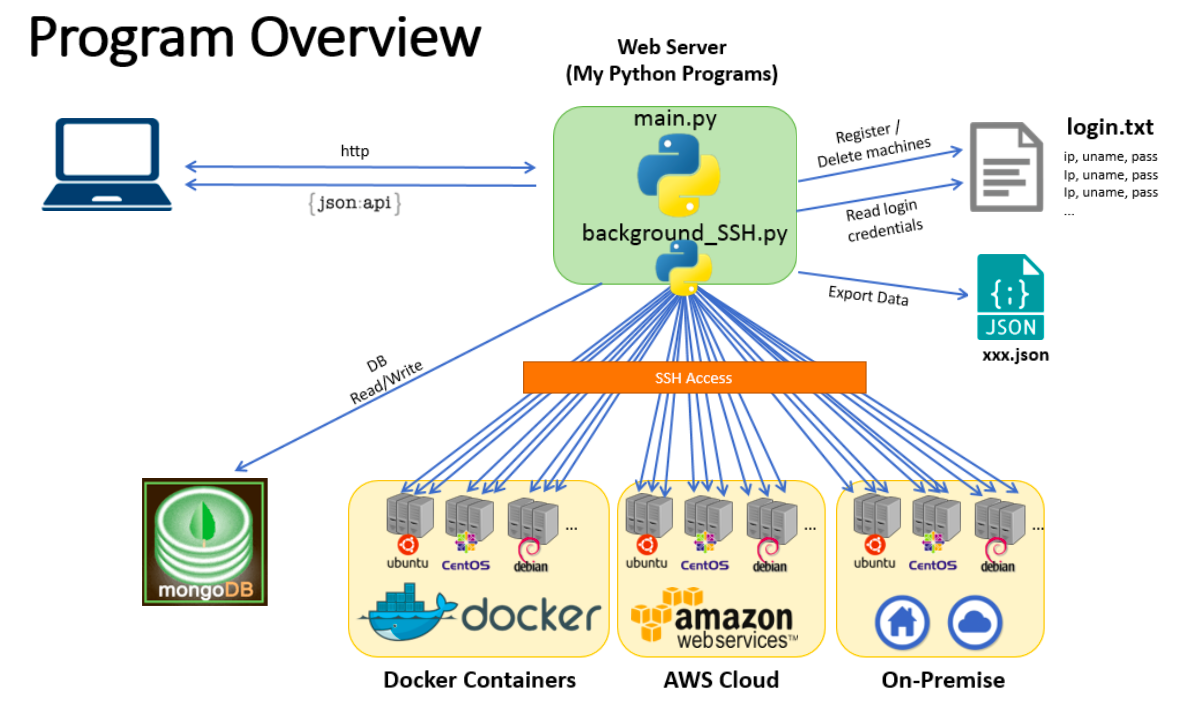
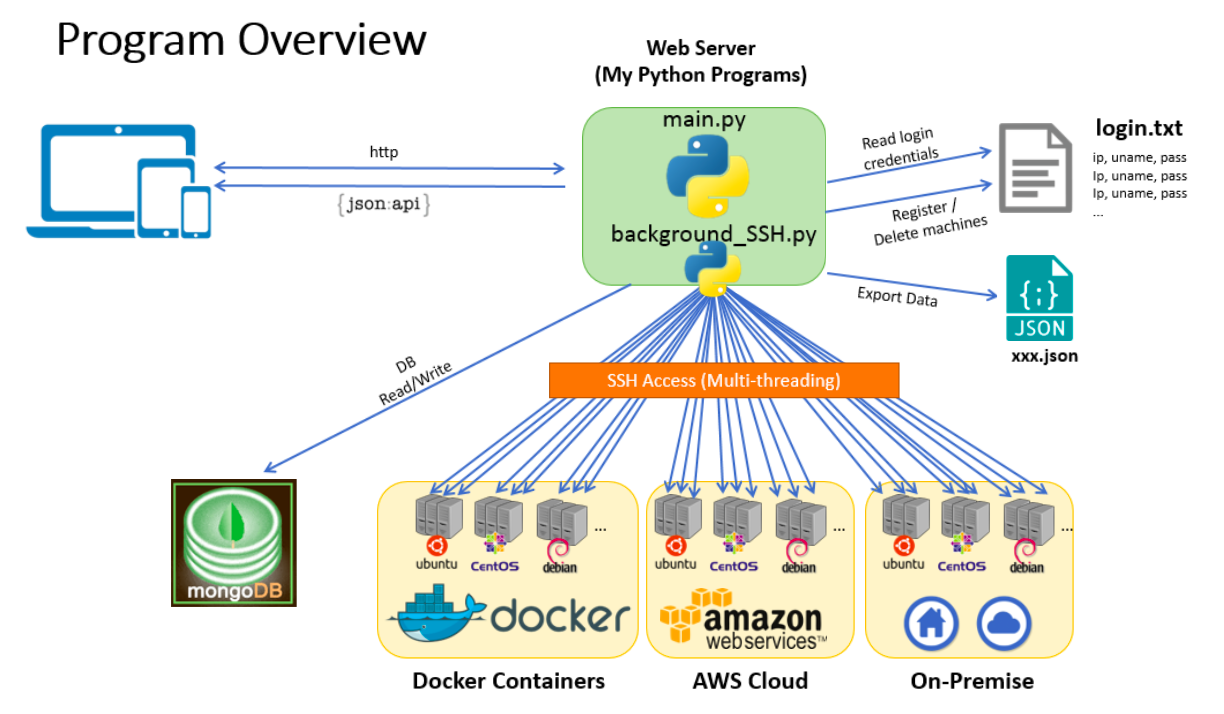
ADD description about responsive design and technology stack

diff --git a/README.md b/README.md
@@ -3,53 +3,69 @@ Management Application for Linux Machines
 
 ## Table of Contents
 1. [Introduction](#1-introduction)
-2. [Install packages](#2-install-packages)
-3. [Try it out](#3-try-it-out)
-    - [With test infrastructure for a demo (Docker containers)](#1-if-you-run-with-the-test-docker-environment)
+2. [Supported environment](#2-supported-environment) 
+3. [Install packages](#3-install-packages)
+4. [Try it out](#4-try-it-out)
+    - [With test infrastructure with Docker containers (Demo purpose only)](#1-with-the-test-docker-environment-demo-purpose-only)
     - [With your own infrastructure](#2-if-you-run-with-your-own-infrastructure)
-4. [Documentation](#4-documentation)
+5. [Documentation](#5-documentation)
 
 
 <br>
 ## 1. Introduction
-This program is a simple management application for Linux machines (Physical/Virtual) that automatically and periodically collects basic machine data via SSH including some performance data (CPU, Memory, Disk), and lets administrators view them from the management portal (GUI).  
-By using this application, administrators can manage their Linux machines (Ubuntu, Debian, CentOS etc.) on Docker containers, AWS cloud, and/or on-premise physical/virtual environment from the central management portal without manually logging in to each machine from the console.
+This program is a simple management application for Linux machines that automatically and periodically collects basic machine data including some performance data (CPU, Memory, Disk) via SSH, and lets administrators view them on the management portal (GUI). As it was developed with an approach of Responsive Web Design, administrators can access to the GUI from any devices such as laptops, tablets, and mobile phones.  
+By using this application, administrators can manage their varied Linux machines (Ubuntu, Debian, CentOS etc.) on Docker containers, AWS cloud, and/or on-premise physical/virtual environment from the central management portal without manually logging in to each machine from the console.
 
 ![Program Overview](static/images/ProgramOverview.png)  
 
-For more details, please see the documentation [here](#4-documentation).  
+For more details, please see the demo documentation [here](#5-documentation).  
 All features are demonstrated with screenshots in the document.
 
 **Key Features**
-- Manage linux machines on Docker containers, AWS cloud, and/or on-premise environment
-- Present basic machine data on the central management portal 
+- Manage Linux machines on Docker containers, AWS cloud, and/or on-premise environment
+- Provide an optimal viewing and interaction experience to varied devices such as laptops, tablets, and mobile devices
+- Present basic machine data on the central management portal  
    (Hostname, IP Address, MAC Address, OS/Version, uptime, CPU load, memory usage, disk usage) 
 - Register/Delete machines to be managed from GUI and/or a text file 
 - Track machine status and display it with icons 
 - Incident alarms with icons when a reachability to machines is lost 
 - Export machine data as a JSON file 
 - Expose machine data via RESTful API (JSON) 
-- SSH access to machines from web browsers (provided by an external python application)
+- SSH access to machines from web browsers (*Only for local machine setup)   
 
-## 2. Install packages
-This program supports only Python 2.x on Linux or OS X. Python 3.x and Windows are not supported.  
+
+**Technology Stack**  
+- Python programming 
+- Flask web framework
+- HTML/CSS + Twitter bootstrap
+- MongoDB
+- Docker containers (Docker Engine + Docker Compose)
+- Bash shell script
+
+
+## 2. Supported environment
+This program supports only Python 2.x on Linux or OS X platforms.  
+Python 3.x and Windows platforms are not supported.  
+
+## 3. Install packages
+
 Following python modules are required to run this program.
 - flask
 - pymongo
 - pexpect
-- butterfly(optional)
+- butterfly (Optional)
 
 To install:
 
 ```
-$ pip install flask pymongo pexpect butterfly
+$ sudo pip install flask pymongo pexpect butterfly
 ```
 
 > [Butterfly](https://github.com/paradoxxxzero/butterfly) is an xterm compatible external terminal application that runs in your browser.  
-> If you don't install it, the program will not provide the feature of browser-based terminal access.  
+> Current release supports the integration with butterfly only on the local machine setup environment. It does not work when you install the program on a remote server.
 
 
-## 3. Try it out
+## 4. Try it out
 This program requires any physical/virtual infrastructure with Linux machines to be managed, and a MongoDB server for storing the machine data.   
 You can execute the program either by:
 
@@ -65,7 +81,7 @@ You can execute the program either by:
 >Using the docker test environment will be much simple and easier.
 
 
-### (1) If you run with the test docker environment
+### (1) With test infrastructure with Docker containers (Demo purpose only)
 #### Step 1. Install docker on your machine 
 
 To deploy the test environment, Docker Engine and Docker Compose are required.
@@ -82,6 +98,11 @@ To deploy the test environment, Docker Engine and Docker Compose are required.
 - Install Docker Compose  
     https://docs.docker.com/compose/install/
 
+- Create a Docker group and add your user  
+    https://docs.docker.com/engine/installation/linux/ubuntulinux/#create-a-docker-group
+
+        $ sudo groupadd docker
+        $ sudo usermod -aG docker USERNAME
 
 
 #### Step 2. Run docker_setup.sh  
@@ -96,9 +117,9 @@ $ ./docker_setup.sh
 
 
 #### Step 3. Access to web server from your web browser
-Access to `http://ipaddress:5000` from any web browser.  
+Access to `http://IPADDRESS:5000` from any web browser.  
 
->If you execute the program on your local machine, _ipaddress_ is localhost or 127.0.0.1
+>If you execute the program on your local machine, _IPADDRESS_ is localhost or 127.0.0.1
 
 <br>
 **Test containers to be deployed**  
@@ -129,7 +150,7 @@ The shell script shutdowns and deletes all containers and settings on your local
 
 
 
-### (2) If you run with your own infrastructure
+### (2) With your own infrastructure
 1. Prepare a MongoDB server which can be accessed from the machine this program will be executed
 2. Prepare your infrastructure with linux servers and/or virtual machines (SSH access must be permitted on each machine)   
     If you manage EC2 instances on AWS, please place .pem file under ~/.ssh/ and run below command.
@@ -142,14 +163,16 @@ The shell script shutdowns and deletes all containers and settings on your local
         $ cd ~/PATH_TO_THE_PROGRAM_DIRECTORY
         $ python main.py        
 
+> You will be asked to enter the IP addres of your MongoDB server
+
 5. Access to `http://IPADDRESS:5000` from any web browser  
 
 >If you execute on your local machine, _IPADDRESS_ is localhost or 127.0.0.1.  
 >The program will ask you to enter the IP address of your MongoDB Server at the beginning
 
 
-## 4. Documentation
-See the documentation [here](https://1drv.ms/b/s!AkRAr6rw0sUWgR3_lrl7csNBX2Ie) for more details.  
+## 5. Documentation
+See the demo documentation [here](https://1drv.ms/b/s!AkRAr6rw0sUWgR3_lrl7csNBX2Ie) for more details.  
 All features are demonstrated with screenshots.
 
 
